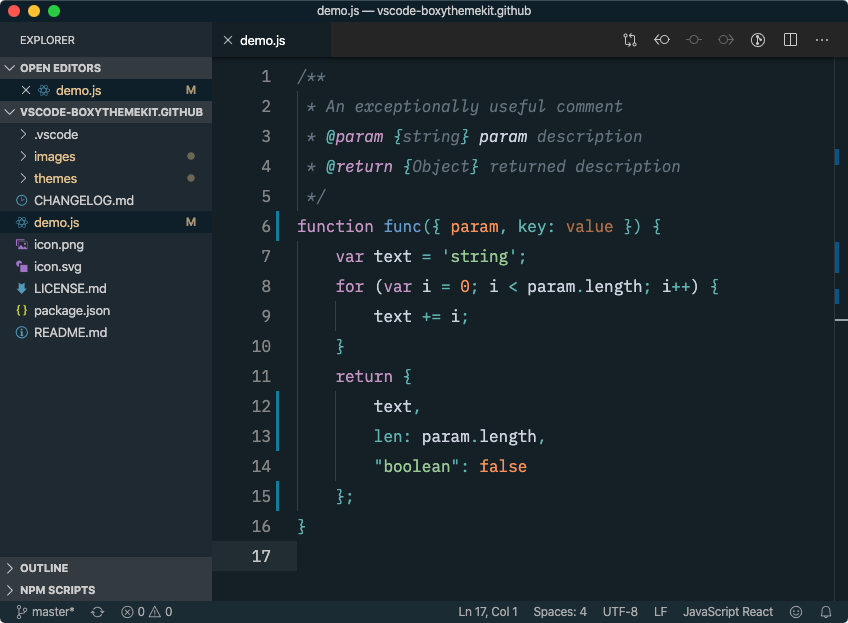
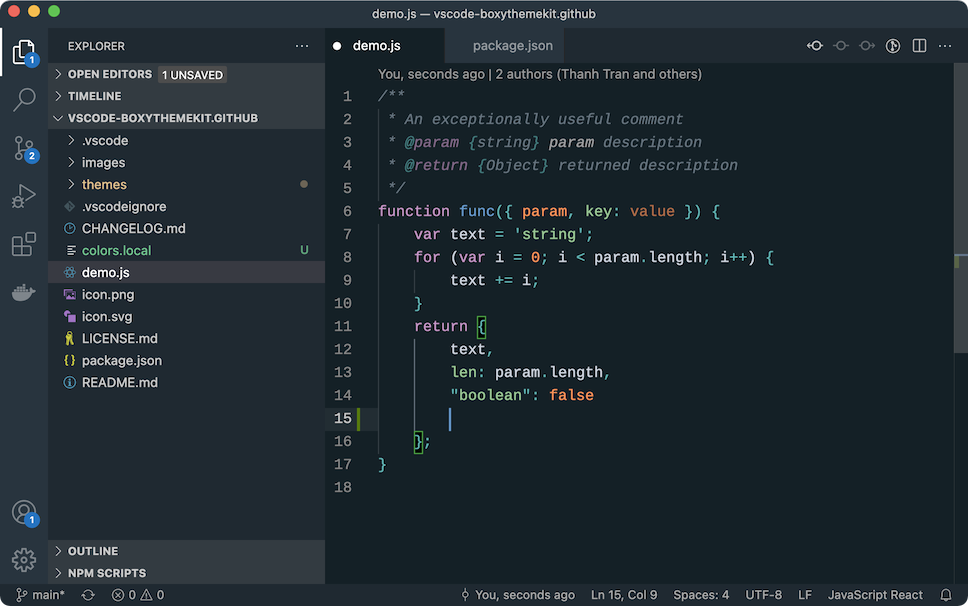
[0.5.0] Boxy Ocean color tweaks, new Boxy Ocean Light

diff --git a/README.md b/README.md
@@ -1,11 +1,11 @@
 # Boxy Theme Kit for Visual Studio Code
 [![VSCode download badge](https://img.shields.io/visual-studio-marketplace/i/trongthanh.theme-boxythemekit?logo=visual-studio-code)](https://marketplace.visualstudio.com/items?itemName=trongthanh.theme-boxythemekit)
 
-A set of color themes based on Sublime's [Boxy Theme](https://github.com/ihodev/sublime-boxy).
+A set of color themes based on Sublime's Boxy Theme by Ihor Oleksandrov.
 
-All props go to Boxy Theme's author Ihor Oleksandrov. I have ported these theme files to VSCode's theme format and published to VSCode Marketplace.
+I have ported these theme files to VSCode's theme format and published to VSCode Marketplace. The Boxy Ocean Light was created by me (@trongthanh) by tweaking the colors from Boxy Ocean.
 
-My favorite themes in this set are Tomorrow (Night) and Ocean, so I'll keep fixing its syntax color and tweaking the workbench theme to match.
+My current themes, Boxy Ocean dimmed (for dark mode) and Boxy Ocean Light (light mode) are getting extra work bench customizations and syntax color tweaks.
 
 For other themes, please feel free to send PR (please respect the original theme, just fix the coloring issues), I'll publish changes as soon as possible.
 
@@ -14,17 +14,6 @@ For other themes, please feel free to send PR (please respect the original theme
 ## Additional customizations:
 
 Here are my recommendations to set in the user's settings. Since these are personal preferences, I won't set this permanently in theme files.
-
-### Dimmer side bar and status bar
-
-This will make the side bar and status bar text color less bright and distracted.
-
-```json
-"workbench.colorCustomizations": {
-    "statusBar.foreground": "#888",
-    "sideBar.foreground": "#888"
-}
-```
 
 ### Smaller workbench font size
 
@@ -35,6 +24,7 @@ This will make workbench text smaller to make it less distracted, more room to d
 	"window.zoomLevel": -0.5,
 	"editor.fontSize": 16,
 	"terminal.integrated.fontSize": 16,
+	"workbench.tree.indent": 16,
 }
 ```
 
@@ -64,45 +54,55 @@ There are workbench customizations mostly based on contributors' preferences. So
 
 ## Boxy Monokai
 
-![monokai-preview](https://raw.githubusercontent.com/trongthanh/vscode-boxythemekit/master/images/monokai-preview.png)
+![monokai-preview](https://raw.githubusercontent.com/trongthanh/vscode-boxythemekit/main/images/monokai-preview.png)
 
 ## Boxy Nova
 
-![nova-preview](https://raw.githubusercontent.com/trongthanh/vscode-boxythemekit/master/images/nova-preview.png)
+![nova-preview](https://raw.githubusercontent.com/trongthanh/vscode-boxythemekit/main/images/nova-preview.png)
 
 ## Boxy Ocean
 
 - Has custom workbench theming. Thanks [@dganoff](https://github.com/dganoff).
 
-![ocean-preview](https://raw.githubusercontent.com/trongthanh/vscode-boxythemekit/master/images/ocean-preview.png)
+![ocean-preview](https://raw.githubusercontent.com/trongthanh/vscode-boxythemekit/main/images/ocean-preview.png)
 
 ## Boxy Ocean (dimmed bg)
 
-- Has custom workbench (based on Boxy Ocean)
+- Has custom workbench
 - Editor's background is dimmed to improve contrast and make text easier to read for long period.
 
-![ocean-dimmed-preview](https://raw.githubusercontent.com/trongthanh/vscode-boxythemekit/master/images/ocean-dimmed-preview.png)
+![ocean-dimmed-preview](https://raw.githubusercontent.com/trongthanh/vscode-boxythemekit/main/images/ocean-dimmed-preview.png)
+
+
+## Boxy Ocean Light [NEW]
+
+- Has custom workbench
+- This is the light theme created by me by tweaking colors from Boxy Ocean
+- Can be used with **Boxy Ocean (dimmed bg)** for day and night shifts.
+
+![ocean-light-preview](https://raw.githubusercontent.com/trongthanh/vscode-boxythemekit/main/images/ocean-light-preview.png)
+
 
 ## Boxy Solarized Dark
 
 - Has custom workbench theming. Thanks [@prog-rajkamal](https://github.com/prog-rajkamal).
 
-![solarized-dark-preview](https://raw.githubusercontent.com/trongthanh/vscode-boxythemekit/master/images/solarized-dark-preview.png)
+![solarized-dark-preview](https://raw.githubusercontent.com/trongthanh/vscode-boxythemekit/main/images/solarized-dark-preview.png)
 
 ## Boxy Solarized Light
 
-![solarized-light-preview](https://raw.githubusercontent.com/trongthanh/vscode-boxythemekit/master/images/solarized-light-preview.png)
+![solarized-light-preview](https://raw.githubusercontent.com/trongthanh/vscode-boxythemekit/main/images/solarized-light-preview.png)
 
 ## Boxy Tomorrow
 
 - This theme is based on the original Tomorrow Night theme with better syntax coloring for HTML, XML, Markdown, JSON, etc.
 - The comment doc tags were dimmed to avoid clutter.
 
-![](https://raw.githubusercontent.com/trongthanh/vscode-boxythemekit/master/images/tomorrow-night-preview.png)
+![](https://raw.githubusercontent.com/trongthanh/vscode-boxythemekit/main/images/tomorrow-night-preview.png)
 
 ## Boxy Yesterday
 
-![yesterday-preview](https://raw.githubusercontent.com/trongthanh/vscode-boxythemekit/master/images/yesterday-preview.png)
+![yesterday-preview](https://raw.githubusercontent.com/trongthanh/vscode-boxythemekit/main/images/yesterday-preview.png)
 
 ---
 

diff --git a/LICENSE.md b/LICENSE.md
@@ -1,7 +1,7 @@
 # The MIT License (MIT)
 
 Copyright (c) 2016: Ihor Oleksandrov
-Copyright (c) 2017-2019: Thanh Tran <github.com/trongthanh>
+Copyright (c) 2017-2021: Thanh Tran <github.com/trongthanh>
 
 > Permission is hereby granted, free of charge, to any person obtaining a copy
 > of this software and associated documentation files (the "Software"), to deal

diff --git a/CHANGELOG.md b/CHANGELOG.md
@@ -1,5 +1,10 @@
 # Change Log
 
+## [0.5.0] 2021-08-16
+
+- [Ocean] Tweaking **Boxy Ocean (dimmed bg)** workbench and markdown syntax coloring
+- [Ocean] NEW **Boxy Ocean Light** theme.
+
 ## [0.4.0~1] 2019-12-18
 
 - [All] Use different color for object literal key and destructuring key binding to improve code readability. See demo screenshots for example.
